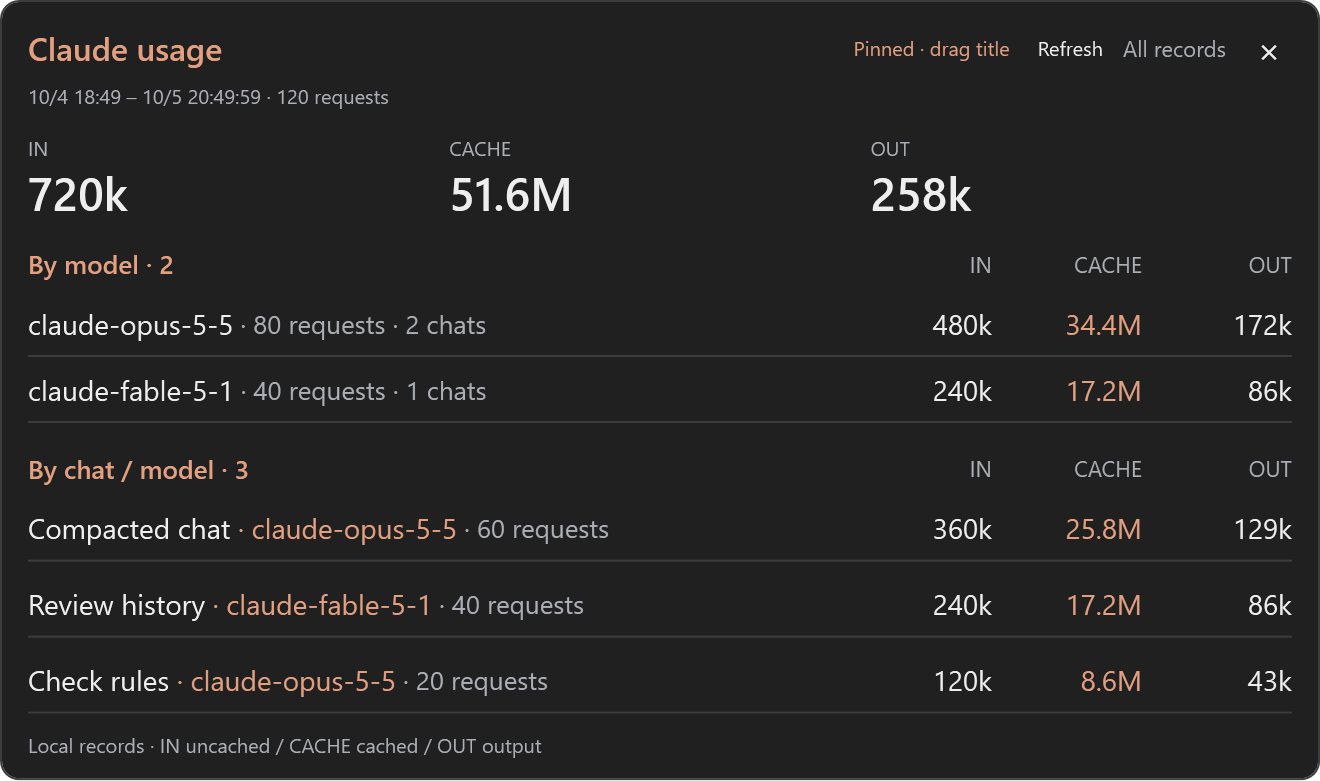
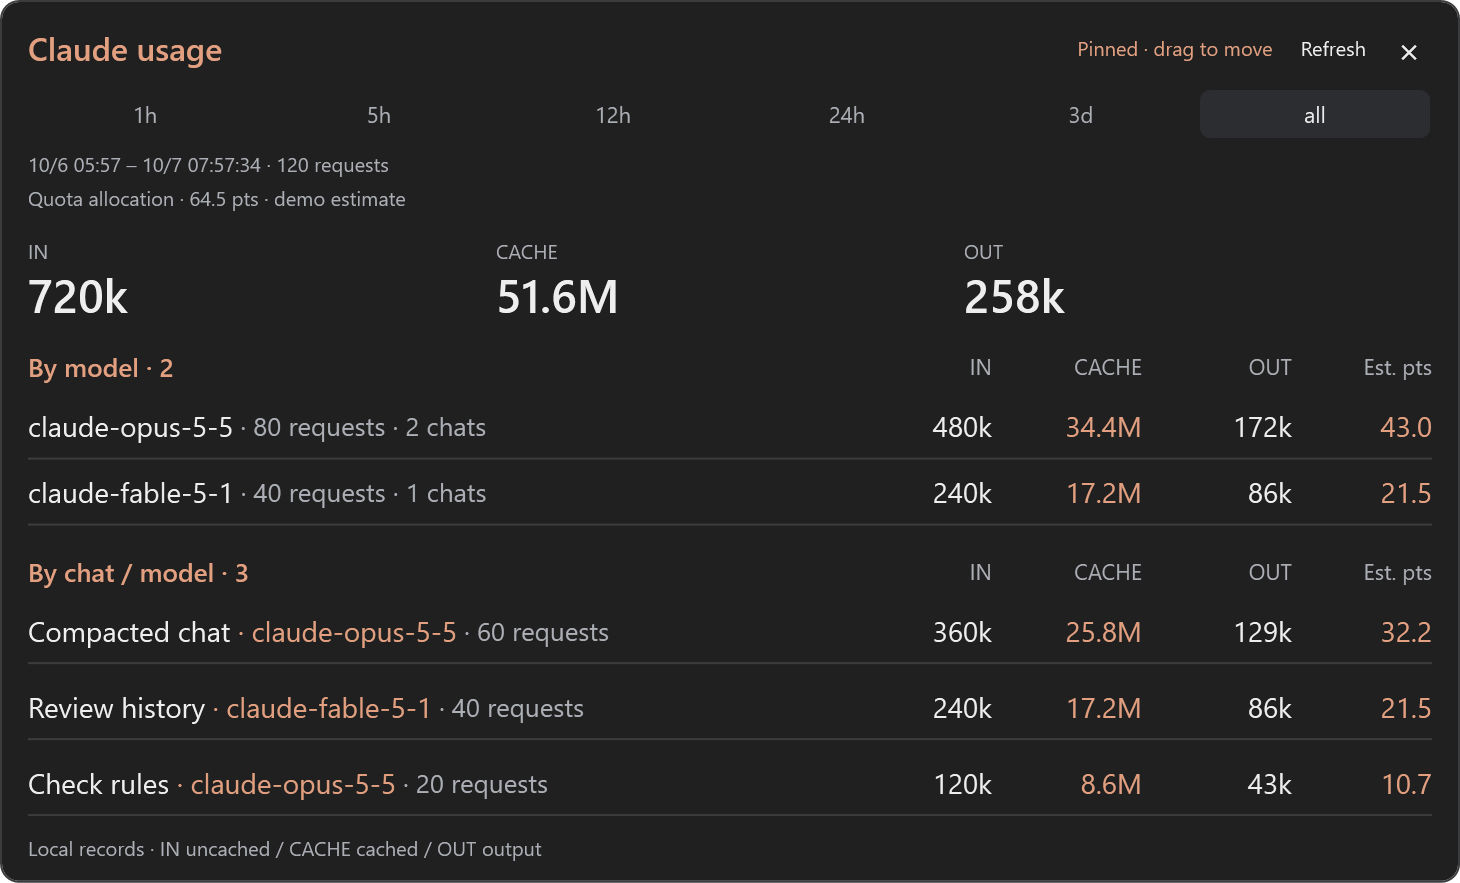
Prepare v0.13.5 gallery and validate bundled app startup

diff --git a/src/QuotaWidget/App.xaml.cs b/src/QuotaWidget/App.xaml.cs
@@ -485,7 +485,15 @@ public partial class App : Application
     public string TokenDetail => (_tokenWarning is { } warning ? Loc.T(warning) : null) ?? _tokens?.Coverage ?? _snapshotTokens?.Meta(Loc.IsEnglish?"coverage.en":"coverage") ?? (_opts.Demo ? Loc.T("演示 token 数值") : Loc.T("本机已记录日志；非账号账单。IN 为未命中输入（含缓存写入），CACHE 为命中输入，OUT 已含推理输出。首次补读可能尚未完成。"));
     public Task<ChatQuotaEstimate> EstimateChatQuota(ChatPlatform platform,SeriesData quota,DateTimeOffset start,DateTimeOffset end)
     {
-        if(_opts.Demo)return Task.FromResult(ChatQuotaEstimate.Unknown("演示数据不参与校准"));
+        if(_opts.Demo)
+        {
+            // Gallery-only fixture, explicitly labelled. Never calibrate against or
+            // import demo usage, and never represent these as validated real weights.
+            var rows=DemoTokenRows(platform,end);var points=RateEngine.SumRange(quota,start,end).Delta;
+            var weight=rows.Sum(r=>(double)r.Usage.Input+r.Usage.Cached*.1+r.Usage.Output*5);
+            return Task.FromResult(new ChatQuotaEstimate(points,rows.Select(r=>new ChatQuotaShare(r.Chat,r.Model,
+                weight>0?points*(r.Usage.Input+r.Usage.Cached*.1+r.Usage.Output*5)/weight:0,0)).ToArray(),""){Synthetic=true});
+        }
         if(!_model.Settings.TokenTrackingEnabled)return Task.FromResult(ChatQuotaEstimate.Unknown("本机记录尚未完整"));
         return Task.Run(()=>
         {

diff --git a/src/QuotaWidget/PlatformUsageCard.cs b/src/QuotaWidget/PlatformUsageCard.cs
@@ -54,8 +54,9 @@ public sealed class PlatformUsageCard : Border
     public void ShowQuotaEstimate(ChatQuotaEstimate estimate)
     {
         QuotaEstimate=estimate;
-        _quotaNote.Text=estimate.Available?Loc.F($"额度分摊 · {estimate.Observed:0.0} 点 · 估算"):Loc.T("额度分摊 · ")+Loc.T(estimate.Reason);
-        _quotaNote.ToolTip=Loc.T("仅分摊完整观测区间。本机以外的消耗无法识别；估算不是官方账单。")+
+        _quotaNote.Text=estimate.Synthetic?Loc.F($"额度分摊 · {estimate.Observed:0.0} 点 · 演示估算"):
+            estimate.Available?Loc.F($"额度分摊 · {estimate.Observed:0.0} 点 · 估算"):Loc.T("额度分摊 · ")+Loc.T(estimate.Reason);
+        _quotaNote.ToolTip=estimate.Synthetic?Loc.T("合成演示数值，不参与实际额度校准。"):Loc.T("仅分摊完整观测区间。本机以外的消耗无法识别；估算不是官方账单。")+
             (estimate.Available?Loc.F($"\n校准 {estimate.CalibrationHours} 个时段 · 验证平均误差 {estimate.ValidationError:0.0} 点/时段"):"");
         foreach(var (cell,chat,model) in _quotaCells)
         {

diff --git a/src/QuotaWidget.Core/ChatQuotaEstimate.cs b/src/QuotaWidget.Core/ChatQuotaEstimate.cs
@@ -4,6 +4,7 @@ public sealed record QuotaToken(DateTimeOffset At,DateTimeOffset End,string Chat
 public sealed record ChatQuotaShare(string Chat,string Model,double Points,double Spread);
 public sealed record ChatQuotaEstimate(double Observed,IReadOnlyList<ChatQuotaShare> Shares,string Reason,int CalibrationHours=0,double ValidationError=0)
 {
+    public bool Synthetic {get;init;}
     public bool Available=>Reason.Length==0;
     public static ChatQuotaEstimate Unknown(string reason,double observed=0)=>new(observed,[],reason);
 }

diff --git a/README.md b/README.md
@@ -58,7 +58,7 @@ The gear is available in full and compact modes. Settings includes language, pro
 
 ## Getting started
 
-1. Download `QuotaWidget-v0.13.4-win-x64.zip` from [Releases](https://github.com/HailiangLoo/QuotaWidget/releases/latest) and extract it into a folder of your choice.
+1. Download `QuotaWidget-v0.13.5-win-x64.zip` from [Releases](https://github.com/HailiangLoo/QuotaWidget/releases/latest) and extract it into a folder of your choice.
 2. Open `QuotaWidget.exe` or `Start Widget.cmd`. The download includes the .NET runtime; no separate runtime installation is needed.
 3. On first launch, choose the providers to monitor and complete official sign-in, then select **Start monitoring**. No quota collection or chat-log reading begins before this step. The gear remains available in compact mode.
 4. Settings shows each provider’s connection status, sign-in/install instructions, a connection check, and a disconnect button. Disconnect stops widget monitoring; it does not sign out of the official app or delete history.
